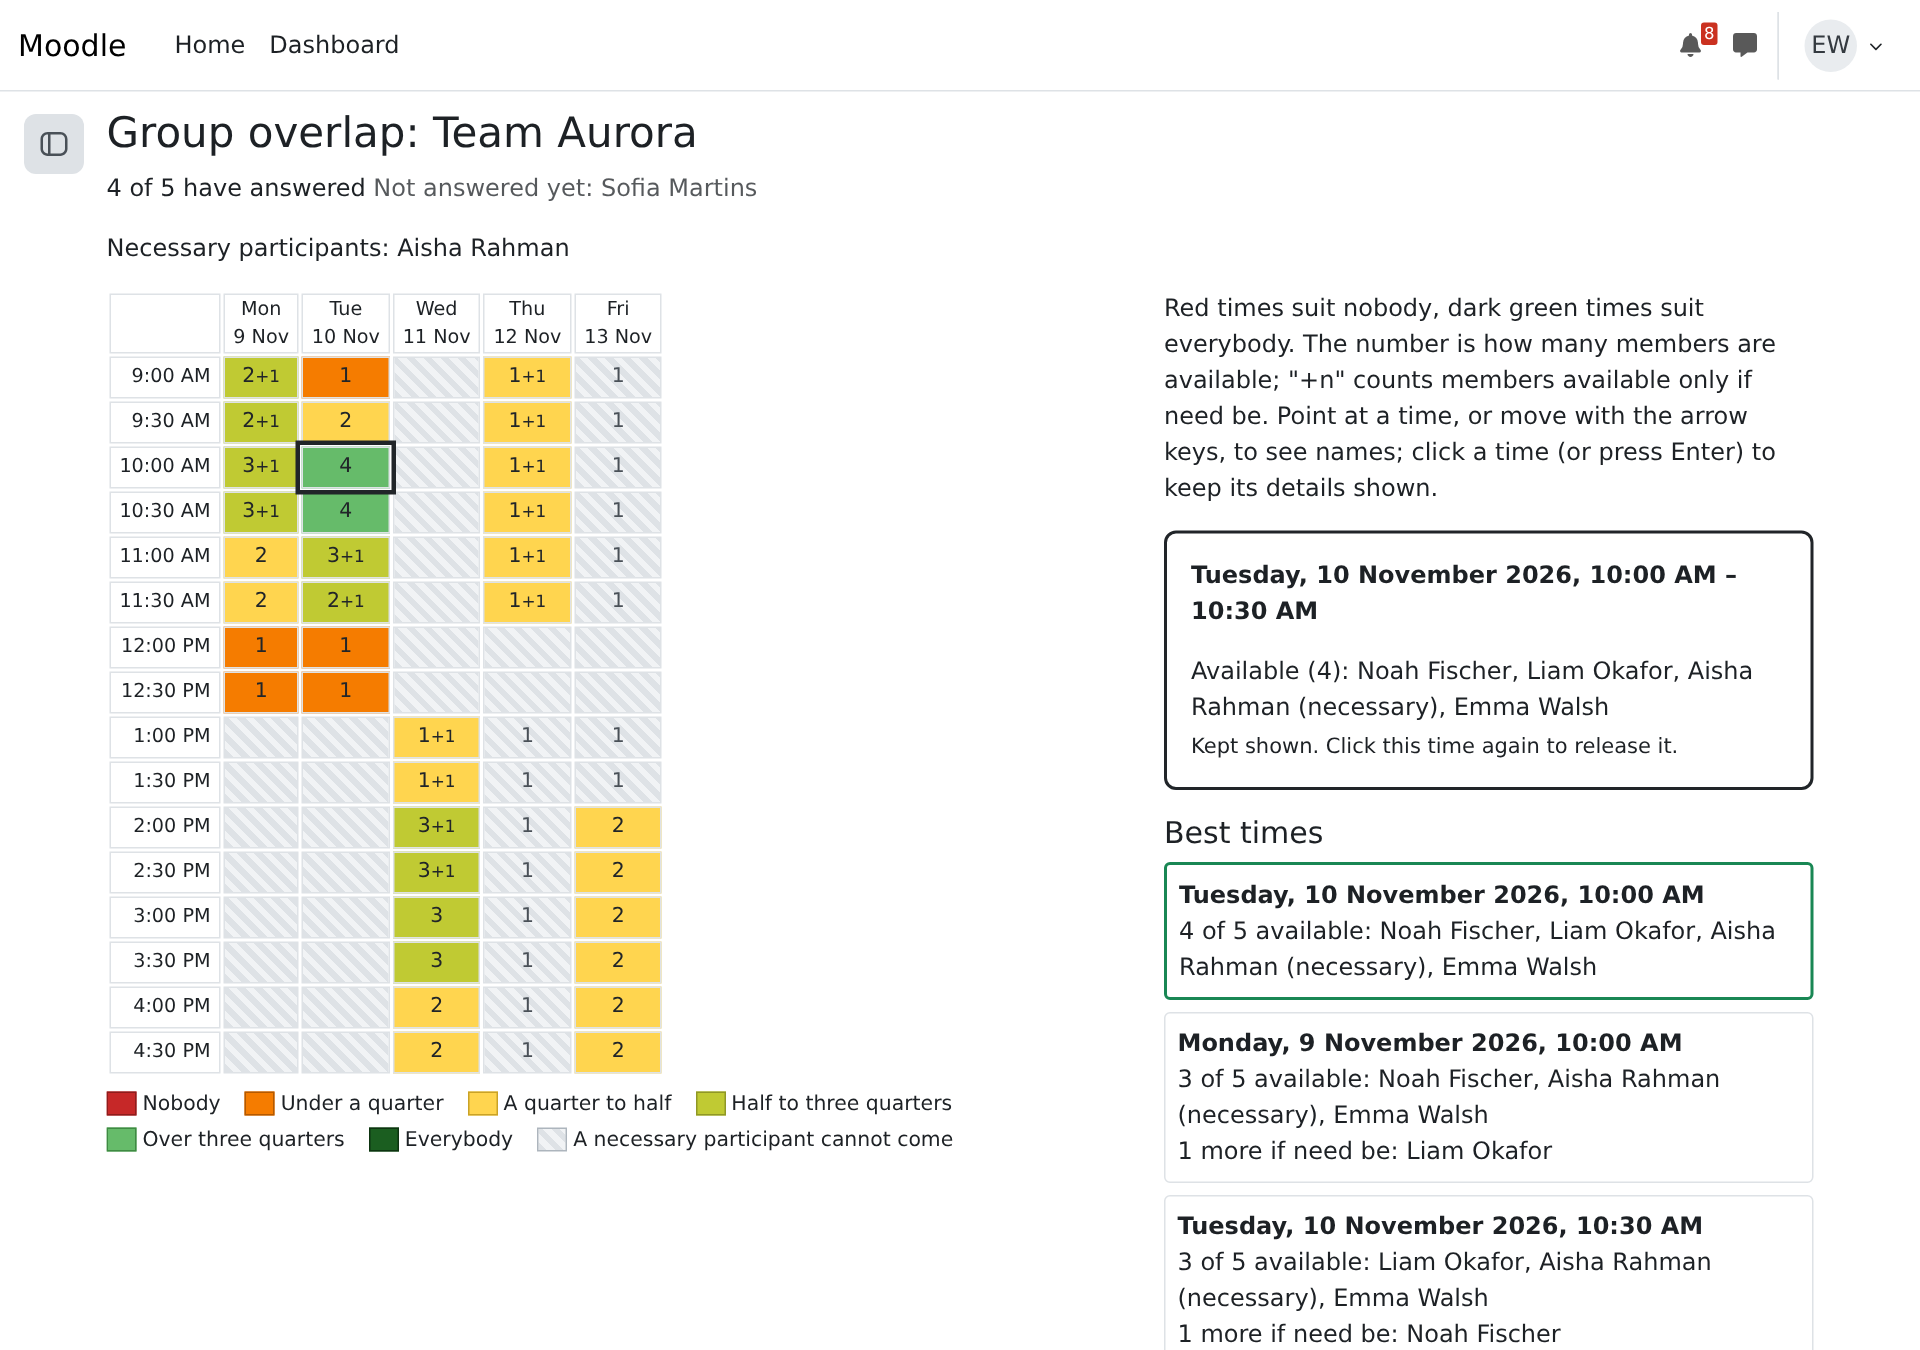
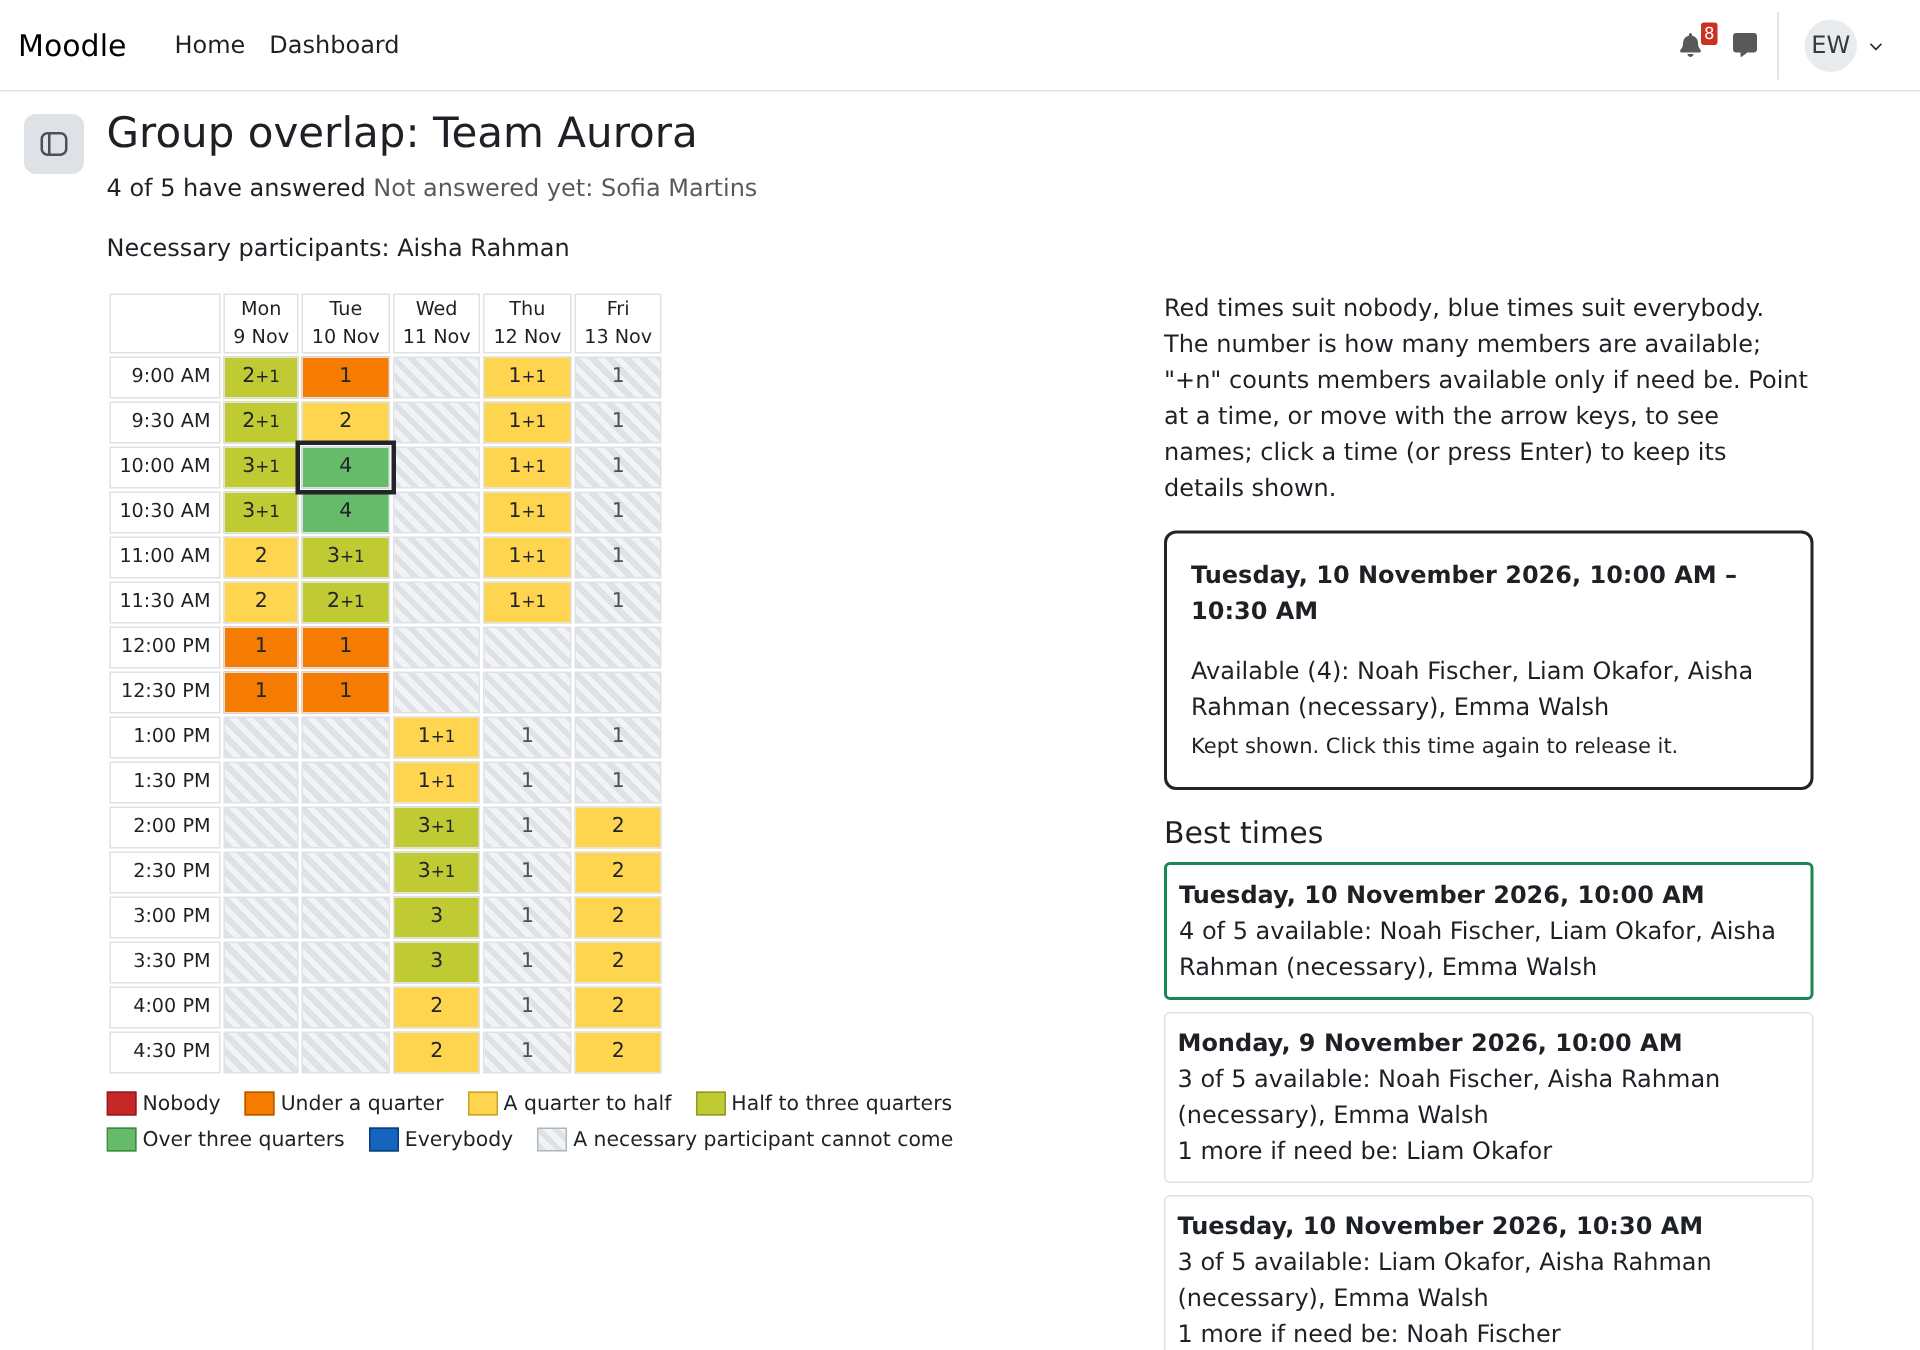
Show times that suit everybody in blue
Only a time when every member is available (not "if need be") turns blue,
so it stands out from the greens. White text on #1565c0 keeps 5.75:1
contrast. The colour key, help text and camp screenshots follow.

Changed region(s): [[0.5938, 0.2178, 0.9375, 0.3733], [0.1875, 0.84, 0.2188, 0.8711]]

diff --git a/styles.css b/styles.css
@@ -154,7 +154,7 @@
     text-align: center;
 }
 
-/* Heat colours, red (nobody can come) through orange, yellow and green to dark green (everybody);
+/* Heat colours, red (nobody can come) through orange, yellow and green, then blue only when everybody is available;
    each pairs with a text colour of at least 4.5:1 contrast, and the count is always printed too. */
 .path-mod-findatime .mod-findatime-heat[data-level="1"],
 .path-mod-findatime .mod-findatime-heatswatch[data-level="1"] {
@@ -193,8 +193,8 @@
 
 .path-mod-findatime .mod-findatime-heat[data-level="6"],
 .path-mod-findatime .mod-findatime-heatswatch[data-level="6"] {
-    border-color: #0d3310;
-    background-color: #1b5e20;
+    border-color: #0b3d78;
+    background-color: #1565c0;
     color: #fff;
 }
 

diff --git a/amd/src/heatmap.js b/amd/src/heatmap.js
@@ -32,7 +32,7 @@ const LEVELS = 6;
 
 /**
  * Heat level, the same formula as \mod_findatime\output\heatmap::level(): 0 while nobody has
- * answered, then 1 (nobody available, red) to LEVELS (everybody available, dark green).
+ * answered, then 1 (nobody available, red) to LEVELS (everybody available, blue).
  *
  * @param {number} available Members available.
  * @param {number} ifneedbe Members available if need be.

diff --git a/tests/required_test.php b/tests/required_test.php
@@ -96,7 +96,7 @@ final class required_test extends \advanced_testcase {
     }
 
     /**
-     * Colour levels: neutral before any answer, red for nobody, green for everybody, quarters between.
+     * Colour levels: neutral before any answer, red for nobody, blue for everybody, quarters between.
      */
     public function test_levels(): void {
         $this->assertSame(0, heatmap::level(0, 0, 4, 0));
@@ -104,7 +104,8 @@ final class required_test extends \advanced_testcase {
         $this->assertSame(2, heatmap::level(0, 1, 4, 2), 'one "if need be" of four is an eighth');
         $this->assertSame(3, heatmap::level(1, 0, 4, 2));
         $this->assertSame(4, heatmap::level(2, 0, 4, 2));
-        $this->assertSame(5, heatmap::level(3, 1, 4, 4));
+        $this->assertSame(5, heatmap::level(3, 1, 4, 4), 'blue needs everybody, not three plus one "if need be"');
+        $this->assertSame(4, heatmap::level(0, 4, 4, 4), 'everybody "if need be" is half, not blue');
         $this->assertSame(6, heatmap::level(4, 0, 4, 4));
         $this->assertCount(heatmap::LEVELS, heatmap::legend());
     }

diff --git a/lang/en/findatime.php b/lang/en/findatime.php
@@ -92,7 +92,7 @@ $string['gridhelp'] = 'Choose a status, then click or drag across the grid to ma
 $string['groupoverlap'] = 'Group overlap';
 $string['groupoverlapof'] = 'Group overlap: {$a}';
 $string['heatdetailempty'] = 'Point at or move to a time to see who is available.';
-$string['heathelp'] = 'Red times suit nobody, dark green times suit everybody. The number is how many members are available; "+n" counts members available only if need be. Point at a time, or move with the arrow keys, to see names; click a time (or press Enter) to keep its details shown.';
+$string['heathelp'] = 'Red times suit nobody, blue times suit everybody. The number is how many members are available; "+n" counts members available only if need be. Point at a time, or move with the arrow keys, to see names; click a time (or press Enter) to keep its details shown.';
 $string['heatnobody'] = 'Nobody is available at this time.';
 $string['heatpin'] = 'Click this time to keep its details shown.';
 $string['heatsummary'] = '{$a->available} of {$a->members} available, {$a->ifneedbe} if need be';

diff --git a/classes/output/heatmap.php b/classes/output/heatmap.php
@@ -35,7 +35,7 @@ use renderer_base;
 class heatmap implements \renderable, \templatable {
     /** @var int Number of best meeting times listed. */
     public const CANDIDATES = 5;
-    /** @var int Colour levels once anybody has answered: 1 = nobody available (red) to 6 = everybody (green). */
+    /** @var int Colour levels once anybody has answered: 1 = nobody available (red) to 6 = everybody (blue). */
     public const LEVELS = 6;
 
     /** @var access Access rules. */
@@ -137,7 +137,7 @@ class heatmap implements \renderable, \templatable {
 
     /**
      * Heat level of a slot: 0 while nobody has answered; then 1 when nobody can come (red), LEVELS when
-     * everybody is available (dark green), and 2-5 for the quarters in between, by the share of members
+     * everybody is available (blue), and 2-5 for the quarters in between, by the share of members
      * available with "if need be" counting half.
      *
      * @param int $available Members available.

diff --git a/README.md b/README.md
@@ -21,8 +21,8 @@ the group's shared availability decides the time.
   enabled, confirms a time and an optional location or link. This creates a group calendar event and
   sends a notification to the group's members. The meeting can be moved or cancelled; the calendar
   event follows.
-- **Colour-coded overlap map**: from red (nobody can come) through orange and yellow to green
-  (everybody), with a colour key. Each block shows its start and end time as a tooltip; clicking a
+- **Colour-coded overlap map**: from red (nobody can come) through orange and yellow to green,
+  and blue only when everybody is available, with a colour key. Each block shows its start and end time as a tooltip; clicking a
   block keeps its details shown (click it again to release, or another block to move).
 - **Necessary participants**: the meeting time must suit them. Once they have answered, the times they
   cannot make are left out of the best times and are never chosen automatically; optionally they are

diff --git a/changelog.md b/changelog.md
@@ -3,6 +3,12 @@
 All notable changes to this project are documented in this file.
 The format is based on [Keep a Changelog](https://keepachangelog.com/).
 
+## [Unreleased]
+
+### Changed
+- On the overlap map, times when every member is available (not "if need be") are blue instead of dark green, so
+  they stand out from the greens.
+
 ## [0.2.0] - 2026-10-24
 
 ### Added
